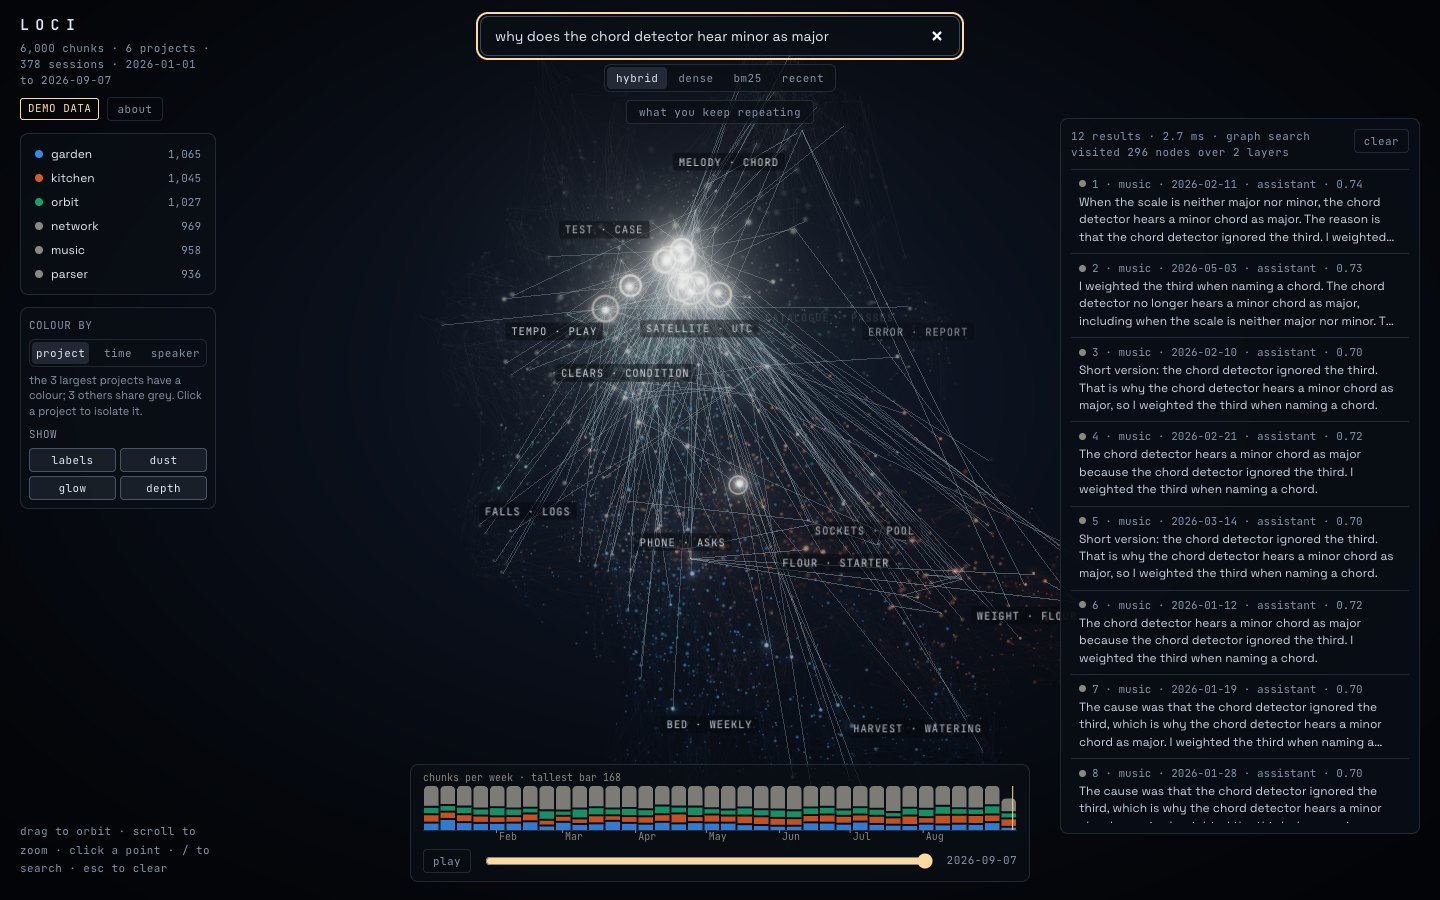
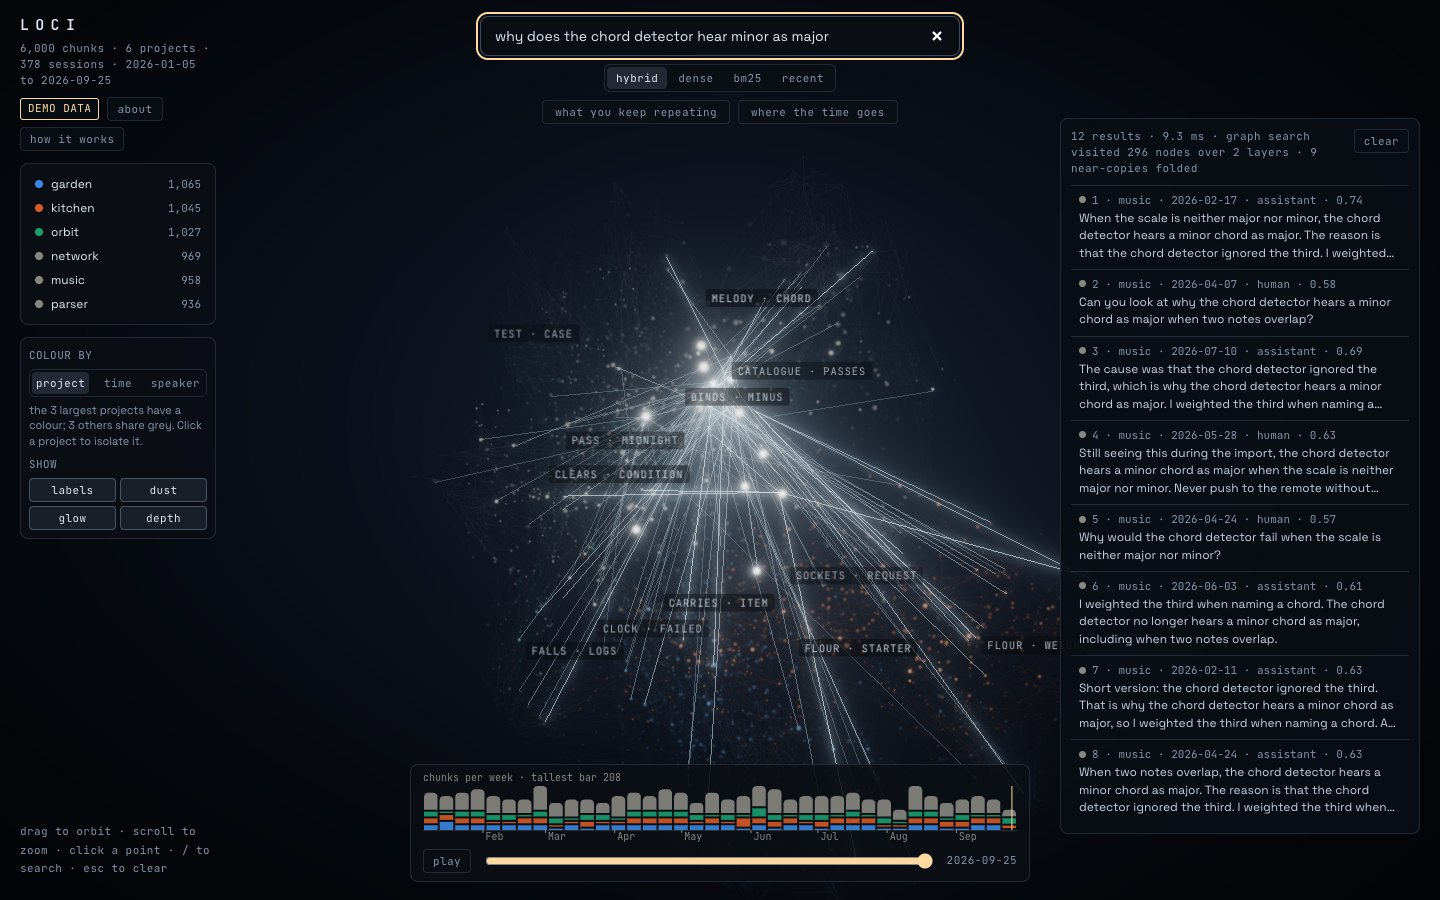
Measured frame rate, a fresh screenshot, and a tidier brand row
- README: on one real GPU (Apple M5, a 2880x1800 canvas, 6,000 messages)
  the viewer holds the display's 60 frames a second, idle and during a
  search. Other GPUs and a physical phone remain unmeasured.
- The badge and buttons under the wordmark wrap whole and have a solid
  background, so a region label behind them does not show through.

Changed region(s): [[0.2812, 0.1244, 0.9688, 0.9333], [0.0, 0.1244, 0.1562, 0.5911], [0.125, 0.1556, 0.1562, 0.3422]]

diff --git a/web/styles.css b/web/styles.css
@@ -112,8 +112,20 @@ body {
 
 .brand-row {
   display: flex;
+  flex-wrap: wrap;
   align-items: center;
-  gap: 8px;
+  gap: 6px 8px;
+}
+
+/* The badge and buttons move to a new line whole; their words never break. */
+.brand-row > * {
+  white-space: nowrap;
+}
+
+/* Solid enough that a region label drifting behind them does not show through. */
+.brand-row .ghost,
+.brand-row .badge {
+  background: rgba(9, 13, 20, 0.92);
 }
 
 .brand-row button {

diff --git a/README.md b/README.md
@@ -255,7 +255,7 @@ npm run test:e2e
 - The index is single-threaded, and the kernel speeds up the inner loop only: vectors are full 32-bit floats, nothing is quantised, and the graph is still built with the TypeScript loop. The kernel was measured on one machine.
 - Folding was added after the first retrieval results were seen, and the same-project label can only price it, never reward it. Whether a folded list is more useful to a person or an agent is not measured.
 - The session profile counts time between messages. It says nothing about what that time produced.
-- The viewer and the public demo are tested in headless Chromium with a software renderer, at desktop and phone sizes. Frame rate on a range of real GPUs and behaviour on a physical phone have not been measured. Hand control is covered by unit tests of its logic, not by a test with a real hand.
+- The viewer's tests run in headless Chromium with a software renderer, at desktop and phone sizes. On one real GPU (Apple M5, Chromium, a 2880x1800 canvas, 6,000 messages) it holds 60 frames a second, idle and during a search. That is the display's own limit, so it shows the viewer keeps up on that machine, not how much room is left. Other GPUs and a physical phone have not been measured. Hand control is covered by unit tests of its logic, not by a test with a real hand.
 - Claude Code transcripts and ChatGPT exports are the only sources ingested today. The ChatGPT importer is tested on synthetic exports in the documented format, not yet on a real one.
 
 ## Licence
